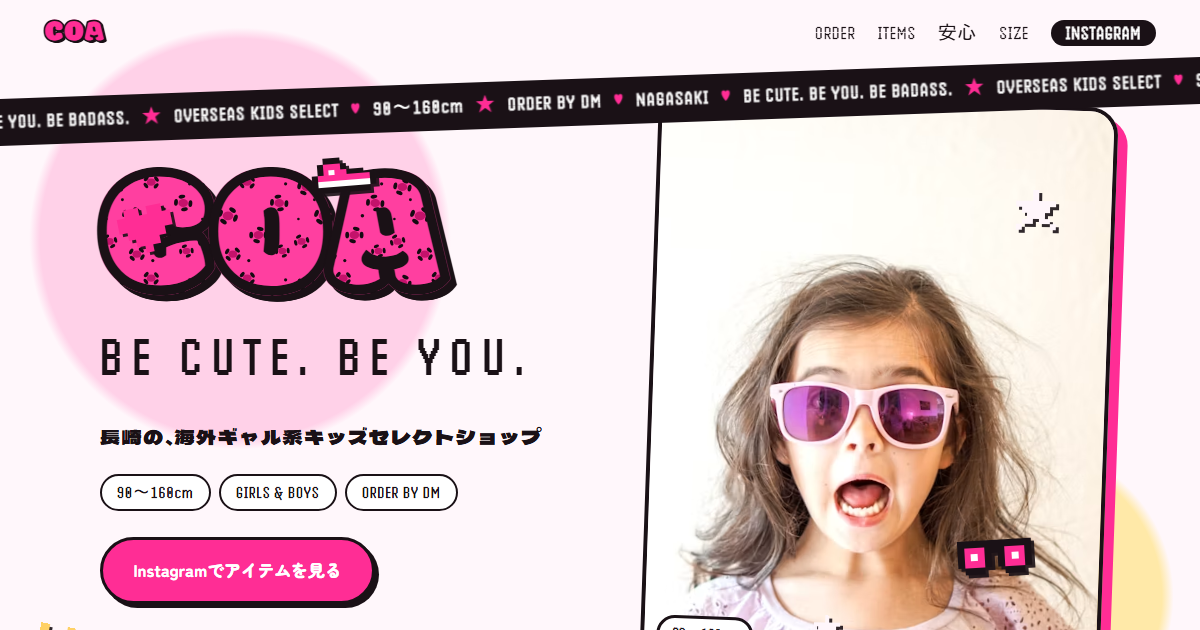
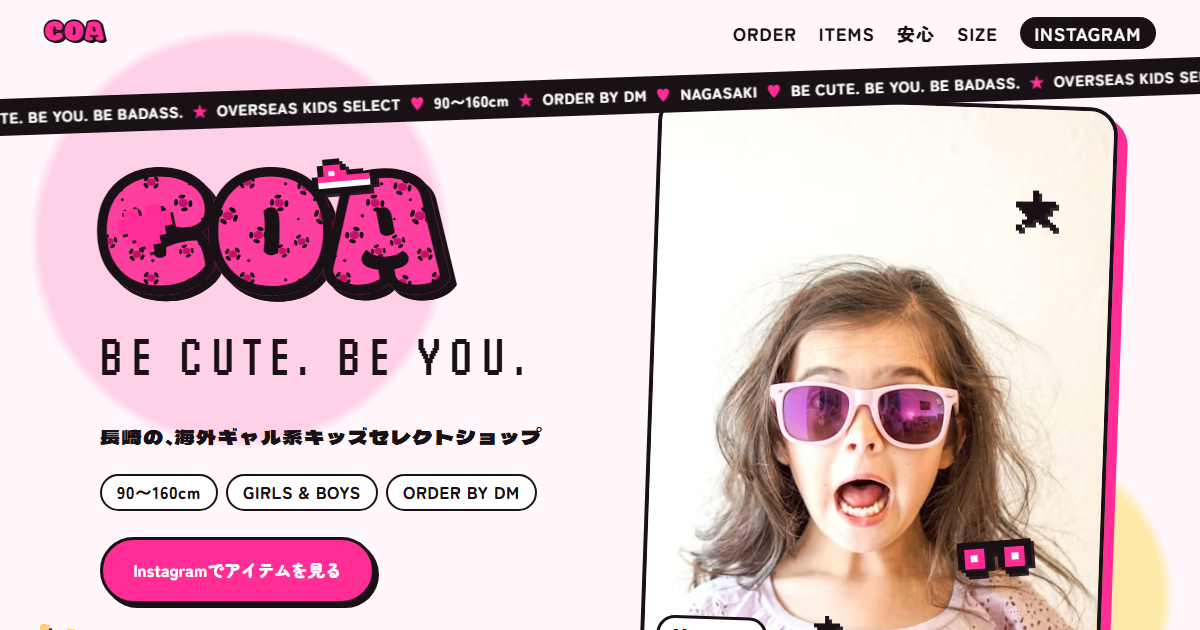
たたき台を更新

diff --git a/s/05f46166e8125e8e/index.html b/s/05f46166e8125e8e/index.html
@@ -230,14 +230,40 @@ body{background:var(--bg);color:var(--black)}
 .foot b{color:var(--pink)}
 .foot .dog{color:#ffd1e8}
 @media (max-width:860px){.hero{grid-template-columns:1fr;text-align:center}.kidph{order:0;width:min(78vw,340px)}.hero .chips{justify-content:center}}
+
+/* readable digits: Handjet's zero reads like 8 */
+.belt,.chip,.kidph::after,.stp b,.card .cap,.top ul{font-family:"Zen Maru Gothic",sans-serif!important;font-weight:900!important;letter-spacing:.04em}
+.belt{font-size:clamp(.9rem,1.25vw,1.1rem)}
+.tl{font-family:var(--jp2);font-weight:400;font-size:.3em;vertical-align:.35em;margin:0 .06em;color:var(--black);-webkit-text-stroke:0;text-shadow:none}
+.days p{display:flex;flex-direction:column;align-items:center;gap:.4em}
+.days .n{display:flex;align-items:baseline;gap:.08em;line-height:1}
+.days .n .u{font-family:var(--jp2);font-weight:400;font-size:1.3rem;color:var(--black);margin-left:.2em}
+.days .n .ya{font-family:var(--jp2);font-weight:400;font-size:1.3rem;color:var(--black);margin-right:.25em}
+/* size tags on a string */
+.sizes{position:relative;padding-top:34px}
+.sizes::before{content:"";position:absolute;left:-2%;right:-2%;top:12px;height:3px;background:var(--black);border-radius:3px}
+.tags{list-style:none;display:grid;grid-template-columns:repeat(8,minmax(0,1fr));gap:clamp(6px,1vw,14px)}
+.tag8{position:relative;background:#fff;border:3px solid var(--black);border-radius:10px 10px 14px 14px;padding:22px 6px 12px;text-align:center;box-shadow:4px 4px 0 var(--pink);transform:rotate(var(--r,0deg));transform-origin:50% -20px}
+.tag8::before{content:"";position:absolute;left:50%;top:8px;width:10px;height:10px;border:3px solid var(--black);border-radius:50%;transform:translateX(-50%);background:var(--bg)}
+.tag8::after{content:"";position:absolute;left:50%;top:-24px;width:2px;height:34px;background:var(--black);transform:translateX(-50%)}
+.tag8 b{display:block;font-family:var(--puff);font-weight:400;font-size:clamp(1.8rem,2.8vw,2.6rem);line-height:1;color:var(--pink);-webkit-text-stroke:1.5px var(--black)}
+.tag8 small{display:block;font-weight:900;font-size:.72rem;margin-top:2px}
+.tag8 span{display:block;font-size:.78rem;color:var(--blush);margin-top:6px;line-height:1.4}
+.size2{display:block}
+.size2 .size__txt{max-width:40em;margin-top:30px}
+.size2 .note{font-size:.8rem;color:var(--gray);margin-top:.6em}
+@media (max-width:860px){.tags{grid-template-columns:repeat(4,minmax(0,1fr));row-gap:34px}.sizes::before{display:none}}
+
+.days .n b.tl{font-family:var(--jp2);font-weight:400;font-size:clamp(1.3rem,2.4vw,2rem);color:var(--black);-webkit-text-stroke:0;text-shadow:none;margin:0 .15em;align-self:center}
+.days .n .ya,.days .n .u{-webkit-text-stroke:0!important;text-shadow:none!important;font-weight:400!important;color:var(--black)}
 </style>
 </head>
 <body>
 <main>
 <header class="top"><a class="logo" href="#">COA</a><ul><li><a href="#how">ORDER</a></li><li><a href="#items">ITEMS</a></li><li><a href="#safe">安心</a></li><li><a href="#size">SIZE</a></li><li><a class="ig" href="https://www.instagram.com/coa._.77/" target="_blank" rel="noopener">INSTAGRAM</a></li></ul></header><section class="hero">
   <div class="belt b1" style="--r:-2deg" aria-hidden="true"><span><i>♥</i>BE CUTE. BE YOU. BE BADASS.<i>★</i>OVERSEAS KIDS SELECT<i>♥</i>90〜160cm<i>★</i>ORDER BY DM<i>♥</i>NAGASAKI<i>♥</i>BE CUTE. BE YOU. BE BADASS.<i>★</i>OVERSEAS KIDS SELECT<i>♥</i>90〜160cm<i>★</i>ORDER BY DM<i>♥</i>NAGASAKI<i>♥</i>BE CUTE. BE YOU. BE BADASS.<i>★</i>OVERSEAS KIDS SELECT<i>♥</i>90〜160cm<i>★</i>ORDER BY DM<i>♥</i>NAGASAKI<i>♥</i>BE CUTE. BE YOU. BE BADASS.<i>★</i>OVERSEAS KIDS SELECT<i>♥</i>90〜160cm<i>★</i>ORDER BY DM<i>♥</i>NAGASAKI<i>♥</i>BE CUTE. BE YOU. BE BADASS.<i>★</i>OVERSEAS KIDS SELECT<i>♥</i>90〜160cm<i>★</i>ORDER BY DM<i>♥</i>NAGASAKI<i>♥</i>BE CUTE. BE YOU. BE BADASS.<i>★</i>OVERSEAS KIDS SELECT<i>♥</i>90〜160cm<i>★</i>ORDER BY DM<i>♥</i>NAGASAKI<i>♥</i>BE CUTE. BE YOU. BE BADASS.<i>★</i>OVERSEAS KIDS SELECT<i>♥</i>90〜160cm<i>★</i>ORDER BY DM<i>♥</i>NAGASAKI<i>♥</i>BE CUTE. BE YOU. BE BADASS.<i>★</i>OVERSEAS KIDS SELECT<i>♥</i>90〜160cm<i>★</i>ORDER BY DM<i>♥</i>NAGASAKI</span></div>
-  <span class="stk" style="--s:54px;left:10%;top:26%;--rot:-12deg" aria-hidden="true"><svg viewBox="0 0 7 6" fill="#ff2d95" shape-rendering="crispEdges"><rect x="1" y="0" width="1" height="1"/><rect x="2" y="0" width="1" height="1"/><rect x="4" y="0" width="1" height="1"/><rect x="5" y="0" width="1" height="1"/><rect x="0" y="1" width="1" height="1"/><rect x="1" y="1" width="1" height="1"/><rect x="2" y="1" width="1" height="1"/><rect x="3" y="1" width="1" height="1"/><rect x="4" y="1" width="1" height="1"/><rect x="5" y="1" width="1" height="1"/><rect x="6" y="1" width="1" height="1"/><rect x="0" y="2" width="1" height="1"/><rect x="1" y="2" width="1" height="1"/><rect x="2" y="2" width="1" height="1"/><rect x="3" y="2" width="1" height="1"/><rect x="4" y="2" width="1" height="1"/><rect x="5" y="2" width="1" height="1"/><rect x="6" y="2" width="1" height="1"/><rect x="1" y="3" width="1" height="1"/><rect x="2" y="3" width="1" height="1"/><rect x="3" y="3" width="1" height="1"/><rect x="4" y="3" width="1" height="1"/><rect x="5" y="3" width="1" height="1"/><rect x="2" y="4" width="1" height="1"/><rect x="3" y="4" width="1" height="1"/><rect x="4" y="4" width="1" height="1"/><rect x="3" y="5" width="1" height="1"/></svg></span><span class="stk" style="--s:40px;right:12%;top:24%;--t:2.4s" aria-hidden="true"><svg viewBox="0 0 7 7" fill="#fff6fb" shape-rendering="crispEdges"><rect x="3" y="0" width="1" height="1"/><rect x="3" y="1" width="1" height="1"/><rect x="0" y="2" width="1" height="1"/><rect x="1" y="2" width="1" height="1"/><rect x="2" y="2" width="1" height="1"/><rect x="3" y="2" width="1" height="1"/><rect x="4" y="2" width="1" height="1"/><rect x="5" y="2" width="1" height="1"/><rect x="6" y="2" width="1" height="1"/><rect x="1" y="3" width="1" height="1"/><rect x="2" y="3" width="1" height="1"/><rect x="3" y="3" width="1" height="1"/><rect x="4" y="3" width="1" height="1"/><rect x="5" y="3" width="1" height="1"/><rect x="2" y="4" width="1" height="1"/><rect x="3" y="4" width="1" height="1"/><rect x="4" y="4" width="1" height="1"/><rect x="1" y="5" width="1" height="1"/><rect x="2" y="5" width="1" height="1"/><rect x="4" y="5" width="1" height="1"/><rect x="5" y="5" width="1" height="1"/><rect x="0" y="6" width="1" height="1"/><rect x="6" y="6" width="1" height="1"/></svg></span><span class="stk" style="--s:62px;left:3%;bottom:14%;--rot:8deg;--d:-.8s" aria-hidden="true"><svg viewBox="0 0 7 5" fill="#ffd166" shape-rendering="crispEdges"><rect x="0" y="0" width="1" height="1"/><rect x="3" y="0" width="1" height="1"/><rect x="6" y="0" width="1" height="1"/><rect x="0" y="1" width="1" height="1"/><rect x="1" y="1" width="1" height="1"/><rect x="3" y="1" width="1" height="1"/><rect x="5" y="1" width="1" height="1"/><rect x="6" y="1" width="1" height="1"/><rect x="0" y="2" width="1" height="1"/><rect x="1" y="2" width="1" height="1"/><rect x="2" y="2" width="1" height="1"/><rect x="3" y="2" width="1" height="1"/><rect x="4" y="2" width="1" height="1"/><rect x="5" y="2" width="1" height="1"/><rect x="6" y="2" width="1" height="1"/><rect x="0" y="3" width="1" height="1"/><rect x="1" y="3" width="1" height="1"/><rect x="2" y="3" width="1" height="1"/><rect x="3" y="3" width="1" height="1"/><rect x="4" y="3" width="1" height="1"/><rect x="5" y="3" width="1" height="1"/><rect x="6" y="3" width="1" height="1"/><rect x="1" y="4" width="1" height="1"/><rect x="2" y="4" width="1" height="1"/><rect x="3" y="4" width="1" height="1"/><rect x="4" y="4" width="1" height="1"/><rect x="5" y="4" width="1" height="1"/></svg></span>
-  <span class="stk" style="--s:74px;right:14%;bottom:26%;--rot:-8deg;--d:-1.4s" aria-hidden="true"><svg viewBox="0 0 11 5" shape-rendering="crispEdges"><rect x="0" y="0" width="1" height="1" fill="#1a1116"/><rect x="1" y="0" width="1" height="1" fill="#1a1116"/><rect x="2" y="0" width="1" height="1" fill="#1a1116"/><rect x="3" y="0" width="1" height="1" fill="#1a1116"/><rect x="4" y="0" width="1" height="1" fill="#1a1116"/><rect x="5" y="0" width="1" height="1" fill="#1a1116"/><rect x="6" y="0" width="1" height="1" fill="#1a1116"/><rect x="7" y="0" width="1" height="1" fill="#1a1116"/><rect x="8" y="0" width="1" height="1" fill="#1a1116"/><rect x="9" y="0" width="1" height="1" fill="#1a1116"/><rect x="10" y="0" width="1" height="1" fill="#1a1116"/><rect x="0" y="1" width="1" height="1" fill="#1a1116"/><rect x="1" y="1" width="1" height="1" fill="#ff2d95"/><rect x="2" y="1" width="1" height="1" fill="#ff2d95"/><rect x="3" y="1" width="1" height="1" fill="#ff2d95"/><rect x="4" y="1" width="1" height="1" fill="#1a1116"/><rect x="5" y="1" width="1" height="1" fill="#1a1116"/><rect x="6" y="1" width="1" height="1" fill="#1a1116"/><rect x="7" y="1" width="1" height="1" fill="#ff2d95"/><rect x="8" y="1" width="1" height="1" fill="#ff2d95"/><rect x="9" y="1" width="1" height="1" fill="#ff2d95"/><rect x="10" y="1" width="1" height="1" fill="#1a1116"/><rect x="0" y="2" width="1" height="1" fill="#1a1116"/><rect x="1" y="2" width="1" height="1" fill="#ff2d95"/><rect x="2" y="2" width="1" height="1" fill="#fff"/><rect x="3" y="2" width="1" height="1" fill="#ff2d95"/><rect x="4" y="2" width="1" height="1" fill="#1a1116"/><rect x="6" y="2" width="1" height="1" fill="#1a1116"/><rect x="7" y="2" width="1" height="1" fill="#ff2d95"/><rect x="8" y="2" width="1" height="1" fill="#fff"/><rect x="9" y="2" width="1" height="1" fill="#ff2d95"/><rect x="10" y="2" width="1" height="1" fill="#1a1116"/><rect x="0" y="3" width="1" height="1" fill="#1a1116"/><rect x="1" y="3" width="1" height="1" fill="#ff2d95"/><rect x="2" y="3" width="1" height="1" fill="#ff2d95"/><rect x="3" y="3" width="1" height="1" fill="#ff2d95"/><rect x="4" y="3" width="1" height="1" fill="#1a1116"/><rect x="6" y="3" width="1" height="1" fill="#1a1116"/><rect x="7" y="3" width="1" height="1" fill="#ff2d95"/><rect x="8" y="3" width="1" height="1" fill="#ff2d95"/><rect x="9" y="3" width="1" height="1" fill="#ff2d95"/><rect x="10" y="3" width="1" height="1" fill="#1a1116"/><rect x="1" y="4" width="1" height="1" fill="#1a1116"/><rect x="2" y="4" width="1" height="1" fill="#1a1116"/><rect x="3" y="4" width="1" height="1" fill="#1a1116"/><rect x="7" y="4" width="1" height="1" fill="#1a1116"/><rect x="8" y="4" width="1" height="1" fill="#1a1116"/><rect x="9" y="4" width="1" height="1" fill="#1a1116"/></svg></span><span class="stk" style="--s:64px;left:26%;top:20%;--d:-.4s;--rot:-6deg" aria-hidden="true"><svg viewBox="0 0 11 6" shape-rendering="crispEdges"><rect x="2" y="0" width="1" height="1" fill="#1a1116"/><rect x="3" y="0" width="1" height="1" fill="#1a1116"/><rect x="4" y="0" width="1" height="1" fill="#1a1116"/><rect x="1" y="1" width="1" height="1" fill="#1a1116"/><rect x="2" y="1" width="1" height="1" fill="#ff2d95"/><rect x="3" y="1" width="1" height="1" fill="#ff2d95"/><rect x="4" y="1" width="1" height="1" fill="#ff2d95"/><rect x="5" y="1" width="1" height="1" fill="#1a1116"/><rect x="1" y="2" width="1" height="1" fill="#1a1116"/><rect x="2" y="2" width="1" height="1" fill="#ff2d95"/><rect x="3" y="2" width="1" height="1" fill="#fff"/><rect x="4" y="2" width="1" height="1" fill="#ff2d95"/><rect x="5" y="2" width="1" height="1" fill="#ff2d95"/><rect x="6" y="2" width="1" height="1" fill="#1a1116"/><rect x="7" y="2" width="1" height="1" fill="#1a1116"/><rect x="8" y="2" width="1" height="1" fill="#1a1116"/><rect x="0" y="3" width="1" height="1" fill="#1a1116"/><rect x="1" y="3" width="1" height="1" fill="#ff2d95"/><rect x="2" y="3" width="1" height="1" fill="#ff2d95"/><rect x="3" y="3" width="1" height="1" fill="#ff2d95"/><rect x="4" y="3" width="1" height="1" fill="#ff2d95"/><rect x="5" y="3" width="1" height="1" fill="#ff2d95"/><rect x="6" y="3" width="1" height="1" fill="#ff2d95"/><rect x="7" y="3" width="1" height="1" fill="#ff2d95"/><rect x="8" y="3" width="1" height="1" fill="#ff2d95"/><rect x="9" y="3" width="1" height="1" fill="#ff2d95"/><rect x="10" y="3" width="1" height="1" fill="#1a1116"/><rect x="0" y="4" width="1" height="1" fill="#1a1116"/><rect x="1" y="4" width="1" height="1" fill="#fff"/><rect x="2" y="4" width="1" height="1" fill="#fff"/><rect x="3" y="4" width="1" height="1" fill="#fff"/><rect x="4" y="4" width="1" height="1" fill="#fff"/><rect x="5" y="4" width="1" height="1" fill="#fff"/><rect x="6" y="4" width="1" height="1" fill="#fff"/><rect x="7" y="4" width="1" height="1" fill="#fff"/><rect x="8" y="4" width="1" height="1" fill="#fff"/><rect x="9" y="4" width="1" height="1" fill="#fff"/><rect x="10" y="4" width="1" height="1" fill="#1a1116"/><rect x="1" y="5" width="1" height="1" fill="#1a1116"/><rect x="2" y="5" width="1" height="1" fill="#1a1116"/><rect x="3" y="5" width="1" height="1" fill="#1a1116"/><rect x="4" y="5" width="1" height="1" fill="#1a1116"/><rect x="5" y="5" width="1" height="1" fill="#1a1116"/><rect x="6" y="5" width="1" height="1" fill="#1a1116"/><rect x="7" y="5" width="1" height="1" fill="#1a1116"/><rect x="8" y="5" width="1" height="1" fill="#1a1116"/><rect x="9" y="5" width="1" height="1" fill="#1a1116"/></svg></span><span class="stk" style="--s:26px;right:30%;bottom:18%;--t:2s" aria-hidden="true"><svg viewBox="0 0 7 7" fill="#fff6fb" shape-rendering="crispEdges"><rect x="3" y="0" width="1" height="1"/><rect x="3" y="1" width="1" height="1"/><rect x="0" y="2" width="1" height="1"/><rect x="1" y="2" width="1" height="1"/><rect x="2" y="2" width="1" height="1"/><rect x="3" y="2" width="1" height="1"/><rect x="4" y="2" width="1" height="1"/><rect x="5" y="2" width="1" height="1"/><rect x="6" y="2" width="1" height="1"/><rect x="1" y="3" width="1" height="1"/><rect x="2" y="3" width="1" height="1"/><rect x="3" y="3" width="1" height="1"/><rect x="4" y="3" width="1" height="1"/><rect x="5" y="3" width="1" height="1"/><rect x="2" y="4" width="1" height="1"/><rect x="3" y="4" width="1" height="1"/><rect x="4" y="4" width="1" height="1"/><rect x="1" y="5" width="1" height="1"/><rect x="2" y="5" width="1" height="1"/><rect x="4" y="5" width="1" height="1"/><rect x="5" y="5" width="1" height="1"/><rect x="0" y="6" width="1" height="1"/><rect x="6" y="6" width="1" height="1"/></svg></span>
+  <span class="stk" style="--s:54px;left:10%;top:26%;--rot:-12deg" aria-hidden="true"><svg viewBox="0 0 7 6" fill="#ff2d95" shape-rendering="crispEdges"><rect x="1" y="0" width="1" height="1"/><rect x="2" y="0" width="1" height="1"/><rect x="4" y="0" width="1" height="1"/><rect x="5" y="0" width="1" height="1"/><rect x="0" y="1" width="1" height="1"/><rect x="1" y="1" width="1" height="1"/><rect x="2" y="1" width="1" height="1"/><rect x="3" y="1" width="1" height="1"/><rect x="4" y="1" width="1" height="1"/><rect x="5" y="1" width="1" height="1"/><rect x="6" y="1" width="1" height="1"/><rect x="0" y="2" width="1" height="1"/><rect x="1" y="2" width="1" height="1"/><rect x="2" y="2" width="1" height="1"/><rect x="3" y="2" width="1" height="1"/><rect x="4" y="2" width="1" height="1"/><rect x="5" y="2" width="1" height="1"/><rect x="6" y="2" width="1" height="1"/><rect x="1" y="3" width="1" height="1"/><rect x="2" y="3" width="1" height="1"/><rect x="3" y="3" width="1" height="1"/><rect x="4" y="3" width="1" height="1"/><rect x="5" y="3" width="1" height="1"/><rect x="2" y="4" width="1" height="1"/><rect x="3" y="4" width="1" height="1"/><rect x="4" y="4" width="1" height="1"/><rect x="3" y="5" width="1" height="1"/></svg></span><span class="stk" style="--s:40px;right:12%;top:24%;--t:2.4s" aria-hidden="true"><svg viewBox="0 0 7 7" fill="#1a1116" shape-rendering="crispEdges"><rect x="3" y="0" width="1" height="1"/><rect x="3" y="1" width="1" height="1"/><rect x="0" y="2" width="1" height="1"/><rect x="1" y="2" width="1" height="1"/><rect x="2" y="2" width="1" height="1"/><rect x="3" y="2" width="1" height="1"/><rect x="4" y="2" width="1" height="1"/><rect x="5" y="2" width="1" height="1"/><rect x="6" y="2" width="1" height="1"/><rect x="1" y="3" width="1" height="1"/><rect x="2" y="3" width="1" height="1"/><rect x="3" y="3" width="1" height="1"/><rect x="4" y="3" width="1" height="1"/><rect x="5" y="3" width="1" height="1"/><rect x="2" y="4" width="1" height="1"/><rect x="3" y="4" width="1" height="1"/><rect x="4" y="4" width="1" height="1"/><rect x="1" y="5" width="1" height="1"/><rect x="2" y="5" width="1" height="1"/><rect x="4" y="5" width="1" height="1"/><rect x="5" y="5" width="1" height="1"/><rect x="0" y="6" width="1" height="1"/><rect x="6" y="6" width="1" height="1"/></svg></span><span class="stk" style="--s:62px;left:3%;bottom:14%;--rot:8deg;--d:-.8s" aria-hidden="true"><svg viewBox="0 0 7 5" fill="#ffd166" shape-rendering="crispEdges"><rect x="0" y="0" width="1" height="1"/><rect x="3" y="0" width="1" height="1"/><rect x="6" y="0" width="1" height="1"/><rect x="0" y="1" width="1" height="1"/><rect x="1" y="1" width="1" height="1"/><rect x="3" y="1" width="1" height="1"/><rect x="5" y="1" width="1" height="1"/><rect x="6" y="1" width="1" height="1"/><rect x="0" y="2" width="1" height="1"/><rect x="1" y="2" width="1" height="1"/><rect x="2" y="2" width="1" height="1"/><rect x="3" y="2" width="1" height="1"/><rect x="4" y="2" width="1" height="1"/><rect x="5" y="2" width="1" height="1"/><rect x="6" y="2" width="1" height="1"/><rect x="0" y="3" width="1" height="1"/><rect x="1" y="3" width="1" height="1"/><rect x="2" y="3" width="1" height="1"/><rect x="3" y="3" width="1" height="1"/><rect x="4" y="3" width="1" height="1"/><rect x="5" y="3" width="1" height="1"/><rect x="6" y="3" width="1" height="1"/><rect x="1" y="4" width="1" height="1"/><rect x="2" y="4" width="1" height="1"/><rect x="3" y="4" width="1" height="1"/><rect x="4" y="4" width="1" height="1"/><rect x="5" y="4" width="1" height="1"/></svg></span>
+  <span class="stk" style="--s:74px;right:14%;bottom:26%;--rot:-8deg;--d:-1.4s" aria-hidden="true"><svg viewBox="0 0 11 5" shape-rendering="crispEdges"><rect x="0" y="0" width="1" height="1" fill="#1a1116"/><rect x="1" y="0" width="1" height="1" fill="#1a1116"/><rect x="2" y="0" width="1" height="1" fill="#1a1116"/><rect x="3" y="0" width="1" height="1" fill="#1a1116"/><rect x="4" y="0" width="1" height="1" fill="#1a1116"/><rect x="5" y="0" width="1" height="1" fill="#1a1116"/><rect x="6" y="0" width="1" height="1" fill="#1a1116"/><rect x="7" y="0" width="1" height="1" fill="#1a1116"/><rect x="8" y="0" width="1" height="1" fill="#1a1116"/><rect x="9" y="0" width="1" height="1" fill="#1a1116"/><rect x="10" y="0" width="1" height="1" fill="#1a1116"/><rect x="0" y="1" width="1" height="1" fill="#1a1116"/><rect x="1" y="1" width="1" height="1" fill="#ff2d95"/><rect x="2" y="1" width="1" height="1" fill="#ff2d95"/><rect x="3" y="1" width="1" height="1" fill="#ff2d95"/><rect x="4" y="1" width="1" height="1" fill="#1a1116"/><rect x="5" y="1" width="1" height="1" fill="#1a1116"/><rect x="6" y="1" width="1" height="1" fill="#1a1116"/><rect x="7" y="1" width="1" height="1" fill="#ff2d95"/><rect x="8" y="1" width="1" height="1" fill="#ff2d95"/><rect x="9" y="1" width="1" height="1" fill="#ff2d95"/><rect x="10" y="1" width="1" height="1" fill="#1a1116"/><rect x="0" y="2" width="1" height="1" fill="#1a1116"/><rect x="1" y="2" width="1" height="1" fill="#ff2d95"/><rect x="2" y="2" width="1" height="1" fill="#fff"/><rect x="3" y="2" width="1" height="1" fill="#ff2d95"/><rect x="4" y="2" width="1" height="1" fill="#1a1116"/><rect x="6" y="2" width="1" height="1" fill="#1a1116"/><rect x="7" y="2" width="1" height="1" fill="#ff2d95"/><rect x="8" y="2" width="1" height="1" fill="#fff"/><rect x="9" y="2" width="1" height="1" fill="#ff2d95"/><rect x="10" y="2" width="1" height="1" fill="#1a1116"/><rect x="0" y="3" width="1" height="1" fill="#1a1116"/><rect x="1" y="3" width="1" height="1" fill="#ff2d95"/><rect x="2" y="3" width="1" height="1" fill="#ff2d95"/><rect x="3" y="3" width="1" height="1" fill="#ff2d95"/><rect x="4" y="3" width="1" height="1" fill="#1a1116"/><rect x="6" y="3" width="1" height="1" fill="#1a1116"/><rect x="7" y="3" width="1" height="1" fill="#ff2d95"/><rect x="8" y="3" width="1" height="1" fill="#ff2d95"/><rect x="9" y="3" width="1" height="1" fill="#ff2d95"/><rect x="10" y="3" width="1" height="1" fill="#1a1116"/><rect x="1" y="4" width="1" height="1" fill="#1a1116"/><rect x="2" y="4" width="1" height="1" fill="#1a1116"/><rect x="3" y="4" width="1" height="1" fill="#1a1116"/><rect x="7" y="4" width="1" height="1" fill="#1a1116"/><rect x="8" y="4" width="1" height="1" fill="#1a1116"/><rect x="9" y="4" width="1" height="1" fill="#1a1116"/></svg></span><span class="stk" style="--s:64px;left:26%;top:20%;--d:-.4s;--rot:-6deg" aria-hidden="true"><svg viewBox="0 0 11 6" shape-rendering="crispEdges"><rect x="2" y="0" width="1" height="1" fill="#1a1116"/><rect x="3" y="0" width="1" height="1" fill="#1a1116"/><rect x="4" y="0" width="1" height="1" fill="#1a1116"/><rect x="1" y="1" width="1" height="1" fill="#1a1116"/><rect x="2" y="1" width="1" height="1" fill="#ff2d95"/><rect x="3" y="1" width="1" height="1" fill="#ff2d95"/><rect x="4" y="1" width="1" height="1" fill="#ff2d95"/><rect x="5" y="1" width="1" height="1" fill="#1a1116"/><rect x="1" y="2" width="1" height="1" fill="#1a1116"/><rect x="2" y="2" width="1" height="1" fill="#ff2d95"/><rect x="3" y="2" width="1" height="1" fill="#fff"/><rect x="4" y="2" width="1" height="1" fill="#ff2d95"/><rect x="5" y="2" width="1" height="1" fill="#ff2d95"/><rect x="6" y="2" width="1" height="1" fill="#1a1116"/><rect x="7" y="2" width="1" height="1" fill="#1a1116"/><rect x="8" y="2" width="1" height="1" fill="#1a1116"/><rect x="0" y="3" width="1" height="1" fill="#1a1116"/><rect x="1" y="3" width="1" height="1" fill="#ff2d95"/><rect x="2" y="3" width="1" height="1" fill="#ff2d95"/><rect x="3" y="3" width="1" height="1" fill="#ff2d95"/><rect x="4" y="3" width="1" height="1" fill="#ff2d95"/><rect x="5" y="3" width="1" height="1" fill="#ff2d95"/><rect x="6" y="3" width="1" height="1" fill="#ff2d95"/><rect x="7" y="3" width="1" height="1" fill="#ff2d95"/><rect x="8" y="3" width="1" height="1" fill="#ff2d95"/><rect x="9" y="3" width="1" height="1" fill="#ff2d95"/><rect x="10" y="3" width="1" height="1" fill="#1a1116"/><rect x="0" y="4" width="1" height="1" fill="#1a1116"/><rect x="1" y="4" width="1" height="1" fill="#fff"/><rect x="2" y="4" width="1" height="1" fill="#fff"/><rect x="3" y="4" width="1" height="1" fill="#fff"/><rect x="4" y="4" width="1" height="1" fill="#fff"/><rect x="5" y="4" width="1" height="1" fill="#fff"/><rect x="6" y="4" width="1" height="1" fill="#fff"/><rect x="7" y="4" width="1" height="1" fill="#fff"/><rect x="8" y="4" width="1" height="1" fill="#fff"/><rect x="9" y="4" width="1" height="1" fill="#fff"/><rect x="10" y="4" width="1" height="1" fill="#1a1116"/><rect x="1" y="5" width="1" height="1" fill="#1a1116"/><rect x="2" y="5" width="1" height="1" fill="#1a1116"/><rect x="3" y="5" width="1" height="1" fill="#1a1116"/><rect x="4" y="5" width="1" height="1" fill="#1a1116"/><rect x="5" y="5" width="1" height="1" fill="#1a1116"/><rect x="6" y="5" width="1" height="1" fill="#1a1116"/><rect x="7" y="5" width="1" height="1" fill="#1a1116"/><rect x="8" y="5" width="1" height="1" fill="#1a1116"/><rect x="9" y="5" width="1" height="1" fill="#1a1116"/></svg></span><span class="stk" style="--s:26px;right:30%;bottom:18%;--t:2s" aria-hidden="true"><svg viewBox="0 0 7 7" fill="#1a1116" shape-rendering="crispEdges"><rect x="3" y="0" width="1" height="1"/><rect x="3" y="1" width="1" height="1"/><rect x="0" y="2" width="1" height="1"/><rect x="1" y="2" width="1" height="1"/><rect x="2" y="2" width="1" height="1"/><rect x="3" y="2" width="1" height="1"/><rect x="4" y="2" width="1" height="1"/><rect x="5" y="2" width="1" height="1"/><rect x="6" y="2" width="1" height="1"/><rect x="1" y="3" width="1" height="1"/><rect x="2" y="3" width="1" height="1"/><rect x="3" y="3" width="1" height="1"/><rect x="4" y="3" width="1" height="1"/><rect x="5" y="3" width="1" height="1"/><rect x="2" y="4" width="1" height="1"/><rect x="3" y="4" width="1" height="1"/><rect x="4" y="4" width="1" height="1"/><rect x="1" y="5" width="1" height="1"/><rect x="2" y="5" width="1" height="1"/><rect x="4" y="5" width="1" height="1"/><rect x="5" y="5" width="1" height="1"/><rect x="0" y="6" width="1" height="1"/><rect x="6" y="6" width="1" height="1"/></svg></span>
   <figure class="kidph" aria-hidden="true"><img src="https://images.unsplash.com/photo-1621451683587-8be65b8b975c?w=900&q=75&auto=format&fit=crop" alt=""></figure>
   <div class="herotxt">
     <h1 class="neon" aria-label="COA">COA</h1>
@@ -274,11 +300,11 @@ body{background:var(--bg);color:var(--black)}
 <section class="sec" id="how">
   <div class="hd rv"><span class="en">HOW TO ORDER</span><h2>ご注文から、お届けまで。</h2><p>海外のメーカーから取り寄せ、日本で一点ずつ検品してからお送りします。</p></div>
   <div class="route" id="route">
-    <span class="track"></span><span class="fill"></span><span class="plane" aria-hidden="true"><svg viewBox="0 0 8 7" fill="#fff6fb" shape-rendering="crispEdges"><rect x="3" y="0" width="1" height="1"/><rect x="3" y="1" width="1" height="1"/><rect x="4" y="1" width="1" height="1"/><rect x="0" y="2" width="1" height="1"/><rect x="1" y="2" width="1" height="1"/><rect x="2" y="2" width="1" height="1"/><rect x="3" y="2" width="1" height="1"/><rect x="4" y="2" width="1" height="1"/><rect x="5" y="2" width="1" height="1"/><rect x="6" y="2" width="1" height="1"/><rect x="0" y="3" width="1" height="1"/><rect x="1" y="3" width="1" height="1"/><rect x="2" y="3" width="1" height="1"/><rect x="3" y="3" width="1" height="1"/><rect x="4" y="3" width="1" height="1"/><rect x="5" y="3" width="1" height="1"/><rect x="6" y="3" width="1" height="1"/><rect x="7" y="3" width="1" height="1"/><rect x="0" y="4" width="1" height="1"/><rect x="1" y="4" width="1" height="1"/><rect x="2" y="4" width="1" height="1"/><rect x="3" y="4" width="1" height="1"/><rect x="4" y="4" width="1" height="1"/><rect x="5" y="4" width="1" height="1"/><rect x="6" y="4" width="1" height="1"/><rect x="3" y="5" width="1" height="1"/><rect x="4" y="5" width="1" height="1"/><rect x="3" y="6" width="1" height="1"/></svg></span>
+    <span class="track"></span><span class="fill"></span><span class="plane" aria-hidden="true"><svg viewBox="0 0 8 7" fill="#1a1116" shape-rendering="crispEdges"><rect x="3" y="0" width="1" height="1"/><rect x="3" y="1" width="1" height="1"/><rect x="4" y="1" width="1" height="1"/><rect x="0" y="2" width="1" height="1"/><rect x="1" y="2" width="1" height="1"/><rect x="2" y="2" width="1" height="1"/><rect x="3" y="2" width="1" height="1"/><rect x="4" y="2" width="1" height="1"/><rect x="5" y="2" width="1" height="1"/><rect x="6" y="2" width="1" height="1"/><rect x="0" y="3" width="1" height="1"/><rect x="1" y="3" width="1" height="1"/><rect x="2" y="3" width="1" height="1"/><rect x="3" y="3" width="1" height="1"/><rect x="4" y="3" width="1" height="1"/><rect x="5" y="3" width="1" height="1"/><rect x="6" y="3" width="1" height="1"/><rect x="7" y="3" width="1" height="1"/><rect x="0" y="4" width="1" height="1"/><rect x="1" y="4" width="1" height="1"/><rect x="2" y="4" width="1" height="1"/><rect x="3" y="4" width="1" height="1"/><rect x="4" y="4" width="1" height="1"/><rect x="5" y="4" width="1" height="1"/><rect x="6" y="4" width="1" height="1"/><rect x="3" y="5" width="1" height="1"/><rect x="4" y="5" width="1" height="1"/><rect x="3" y="6" width="1" height="1"/></svg></span>
     <ol style="display:contents;list-style:none"><li class="stp"><b>STEP 01</b><strong>Instagramで見る</strong><span>気になるアイテムを探す</span></li><li class="stp"><b>STEP 02</b><strong>DMで注文</strong><span>サイズ・カラー・在庫を確認</span></li><li class="stp"><b>STEP 03</b><strong>お支払い</strong><span>銀行振込</span></li><li class="stp"><b>STEP 04</b><strong>海外メーカーへ発注</strong><span>ご入金を確認してから</span></li><li class="stp jp"><b>STEP 05</b><strong>日本で検品</strong><span>届いたら一つずつ丁寧に</span></li><li class="stp"><b>STEP 06</b><strong>丁寧に梱包</strong><span>心を込めて</span></li><li class="stp"><b>STEP 07</b><strong>発送</strong><span>追跡番号をご連絡</span></li></ol>
   </div>
   <div class="days rv">
-    <p>お届けまで<br><b><span style="font-family:var(--jp2);font-size:.55em">約</span>2〜4</b>週間<small>海外からのお取り寄せのため、入荷状況により前後します</small></p>
+    <p>お届けまで<span class="n"><span class="ya">約</span><b>2</b><b class="tl">〜</b><b>4</b><span class="u">週間</span></span><small>海外からのお取り寄せのため、入荷状況により前後します</small></p>
   </div>
 </section>
 
@@ -286,22 +312,20 @@ body{background:var(--bg);color:var(--black)}
   <div class="safe__in">
     <div class="badge rv"><small>30日以上お待たせした場合は</small><b>全額<br>返金</b><span>海外からのお取り寄せでも、安心してお待ちください</span></div>
     <ul class="checks">
-      <li class="rv"><svg viewBox="0 0 7 7" fill="#fff6fb" shape-rendering="crispEdges"><rect x="3" y="0" width="1" height="1"/><rect x="3" y="1" width="1" height="1"/><rect x="0" y="2" width="1" height="1"/><rect x="1" y="2" width="1" height="1"/><rect x="2" y="2" width="1" height="1"/><rect x="3" y="2" width="1" height="1"/><rect x="4" y="2" width="1" height="1"/><rect x="5" y="2" width="1" height="1"/><rect x="6" y="2" width="1" height="1"/><rect x="1" y="3" width="1" height="1"/><rect x="2" y="3" width="1" height="1"/><rect x="3" y="3" width="1" height="1"/><rect x="4" y="3" width="1" height="1"/><rect x="5" y="3" width="1" height="1"/><rect x="2" y="4" width="1" height="1"/><rect x="3" y="4" width="1" height="1"/><rect x="4" y="4" width="1" height="1"/><rect x="1" y="5" width="1" height="1"/><rect x="2" y="5" width="1" height="1"/><rect x="4" y="5" width="1" height="1"/><rect x="5" y="5" width="1" height="1"/><rect x="0" y="6" width="1" height="1"/><rect x="6" y="6" width="1" height="1"/></svg><strong>日本で一点ずつ検品</strong><span>届いたアイテムは一つひとつ確認し、問題がないことを確かめてからお送りします。</span></li>
+      <li class="rv"><svg viewBox="0 0 7 7" fill="#1a1116" shape-rendering="crispEdges"><rect x="3" y="0" width="1" height="1"/><rect x="3" y="1" width="1" height="1"/><rect x="0" y="2" width="1" height="1"/><rect x="1" y="2" width="1" height="1"/><rect x="2" y="2" width="1" height="1"/><rect x="3" y="2" width="1" height="1"/><rect x="4" y="2" width="1" height="1"/><rect x="5" y="2" width="1" height="1"/><rect x="6" y="2" width="1" height="1"/><rect x="1" y="3" width="1" height="1"/><rect x="2" y="3" width="1" height="1"/><rect x="3" y="3" width="1" height="1"/><rect x="4" y="3" width="1" height="1"/><rect x="5" y="3" width="1" height="1"/><rect x="2" y="4" width="1" height="1"/><rect x="3" y="4" width="1" height="1"/><rect x="4" y="4" width="1" height="1"/><rect x="1" y="5" width="1" height="1"/><rect x="2" y="5" width="1" height="1"/><rect x="4" y="5" width="1" height="1"/><rect x="5" y="5" width="1" height="1"/><rect x="0" y="6" width="1" height="1"/><rect x="6" y="6" width="1" height="1"/></svg><strong>日本で一点ずつ検品</strong><span>届いたアイテムは一つひとつ確認し、問題がないことを確かめてからお送りします。</span></li>
       <li class="rv"><svg viewBox="0 0 7 6" fill="#ff2d95" shape-rendering="crispEdges"><rect x="1" y="0" width="1" height="1"/><rect x="2" y="0" width="1" height="1"/><rect x="4" y="0" width="1" height="1"/><rect x="5" y="0" width="1" height="1"/><rect x="0" y="1" width="1" height="1"/><rect x="1" y="1" width="1" height="1"/><rect x="2" y="1" width="1" height="1"/><rect x="3" y="1" width="1" height="1"/><rect x="4" y="1" width="1" height="1"/><rect x="5" y="1" width="1" height="1"/><rect x="6" y="1" width="1" height="1"/><rect x="0" y="2" width="1" height="1"/><rect x="1" y="2" width="1" height="1"/><rect x="2" y="2" width="1" height="1"/><rect x="3" y="2" width="1" height="1"/><rect x="4" y="2" width="1" height="1"/><rect x="5" y="2" width="1" height="1"/><rect x="6" y="2" width="1" height="1"/><rect x="1" y="3" width="1" height="1"/><rect x="2" y="3" width="1" height="1"/><rect x="3" y="3" width="1" height="1"/><rect x="4" y="3" width="1" height="1"/><rect x="5" y="3" width="1" height="1"/><rect x="2" y="4" width="1" height="1"/><rect x="3" y="4" width="1" height="1"/><rect x="4" y="4" width="1" height="1"/><rect x="3" y="5" width="1" height="1"/></svg><strong>丁寧に梱包</strong><span>大切な一着を、心を込めて包みます。</span></li>
-      <li class="rv"><svg viewBox="0 0 4 6" fill="#fff6fb" shape-rendering="crispEdges"><rect x="2" y="0" width="1" height="1"/><rect x="3" y="0" width="1" height="1"/><rect x="1" y="1" width="1" height="1"/><rect x="2" y="1" width="1" height="1"/><rect x="0" y="2" width="1" height="1"/><rect x="1" y="2" width="1" height="1"/><rect x="2" y="2" width="1" height="1"/><rect x="3" y="2" width="1" height="1"/><rect x="1" y="3" width="1" height="1"/><rect x="2" y="3" width="1" height="1"/><rect x="0" y="4" width="1" height="1"/><rect x="1" y="4" width="1" height="1"/><rect x="0" y="5" width="1" height="1"/></svg><strong>追跡番号をご連絡</strong><span>発送が済んだら追跡番号をお知らせします。今どこにあるか、いつでも確認できます。</span></li>
+      <li class="rv"><svg viewBox="0 0 4 6" fill="#1a1116" shape-rendering="crispEdges"><rect x="2" y="0" width="1" height="1"/><rect x="3" y="0" width="1" height="1"/><rect x="1" y="1" width="1" height="1"/><rect x="2" y="1" width="1" height="1"/><rect x="0" y="2" width="1" height="1"/><rect x="1" y="2" width="1" height="1"/><rect x="2" y="2" width="1" height="1"/><rect x="3" y="2" width="1" height="1"/><rect x="1" y="3" width="1" height="1"/><rect x="2" y="3" width="1" height="1"/><rect x="0" y="4" width="1" height="1"/><rect x="1" y="4" width="1" height="1"/><rect x="0" y="5" width="1" height="1"/></svg><strong>追跡番号をご連絡</strong><span>発送が済んだら追跡番号をお知らせします。今どこにあるか、いつでも確認できます。</span></li>
     </ul>
   </div>
 </section>
 
 <section class="sec" id="size">
-  <div class="size">
-    <div class="ruler rv" aria-hidden="true"><div style="--h:34%"><span>90</span></div><div style="--h:52%"><span>110</span></div><div style="--h:70%"><span>130</span></div><div style="--h:86%"><span>150</span></div><div style="--h:100%"><span>160</span></div></div>
-    <div class="size__txt rv">
-      <div class="hd" style="margin-bottom:10px"><span class="en">SIZE</span></div>
-      <p class="big">90〜160<small>cm</small></p>
-      <p>小さなキッズからジュニアまで。女の子のアイテムはもちろん、男の子のアイテムもそろえています。サイズの展開はアイテムごとに異なるので、DMでお気軽にお問い合わせください。</p>
-    </div>
-  </div>
+  <div class="hd rv"><span class="en">SIZE</span><h2>うちの子は、何サイズ？</h2><p>90〜160cmまで。女の子はもちろん、男の子のアイテムもそろえています。</p></div>
+  <div class="sizes"><ol class="tags"><li class="tag8 rv" style="--r:-3deg"><b>90</b><small>cm</small><span>2〜3歳</span></li><li class="tag8 rv" style="--r:2deg"><b>100</b><small>cm</small><span>3〜4歳</span></li><li class="tag8 rv" style="--r:-1deg"><b>110</b><small>cm</small><span>4〜5歳</span></li><li class="tag8 rv" style="--r:3deg"><b>120</b><small>cm</small><span>6〜7歳</span></li><li class="tag8 rv" style="--r:-2deg"><b>130</b><small>cm</small><span>8〜9歳</span></li><li class="tag8 rv" style="--r:1deg"><b>140</b><small>cm</small><span>9〜10歳</span></li><li class="tag8 rv" style="--r:-3deg"><b>150</b><small>cm</small><span>11〜12歳</span></li><li class="tag8 rv" style="--r:2deg"><b>160</b><small>cm</small><span>13歳〜</span></li></ol></div>
+  <div class="size2"><div class="size__txt rv">
+    <p>サイズの展開はアイテムごとに異なります。迷ったときは、お子さまの身長を添えてDMでご相談ください。</p>
+    <p class="note">※年齢は一般的な目安です。</p>
+  </div></div>
 </section>
 
 <section class="sec contact" id="contact">
